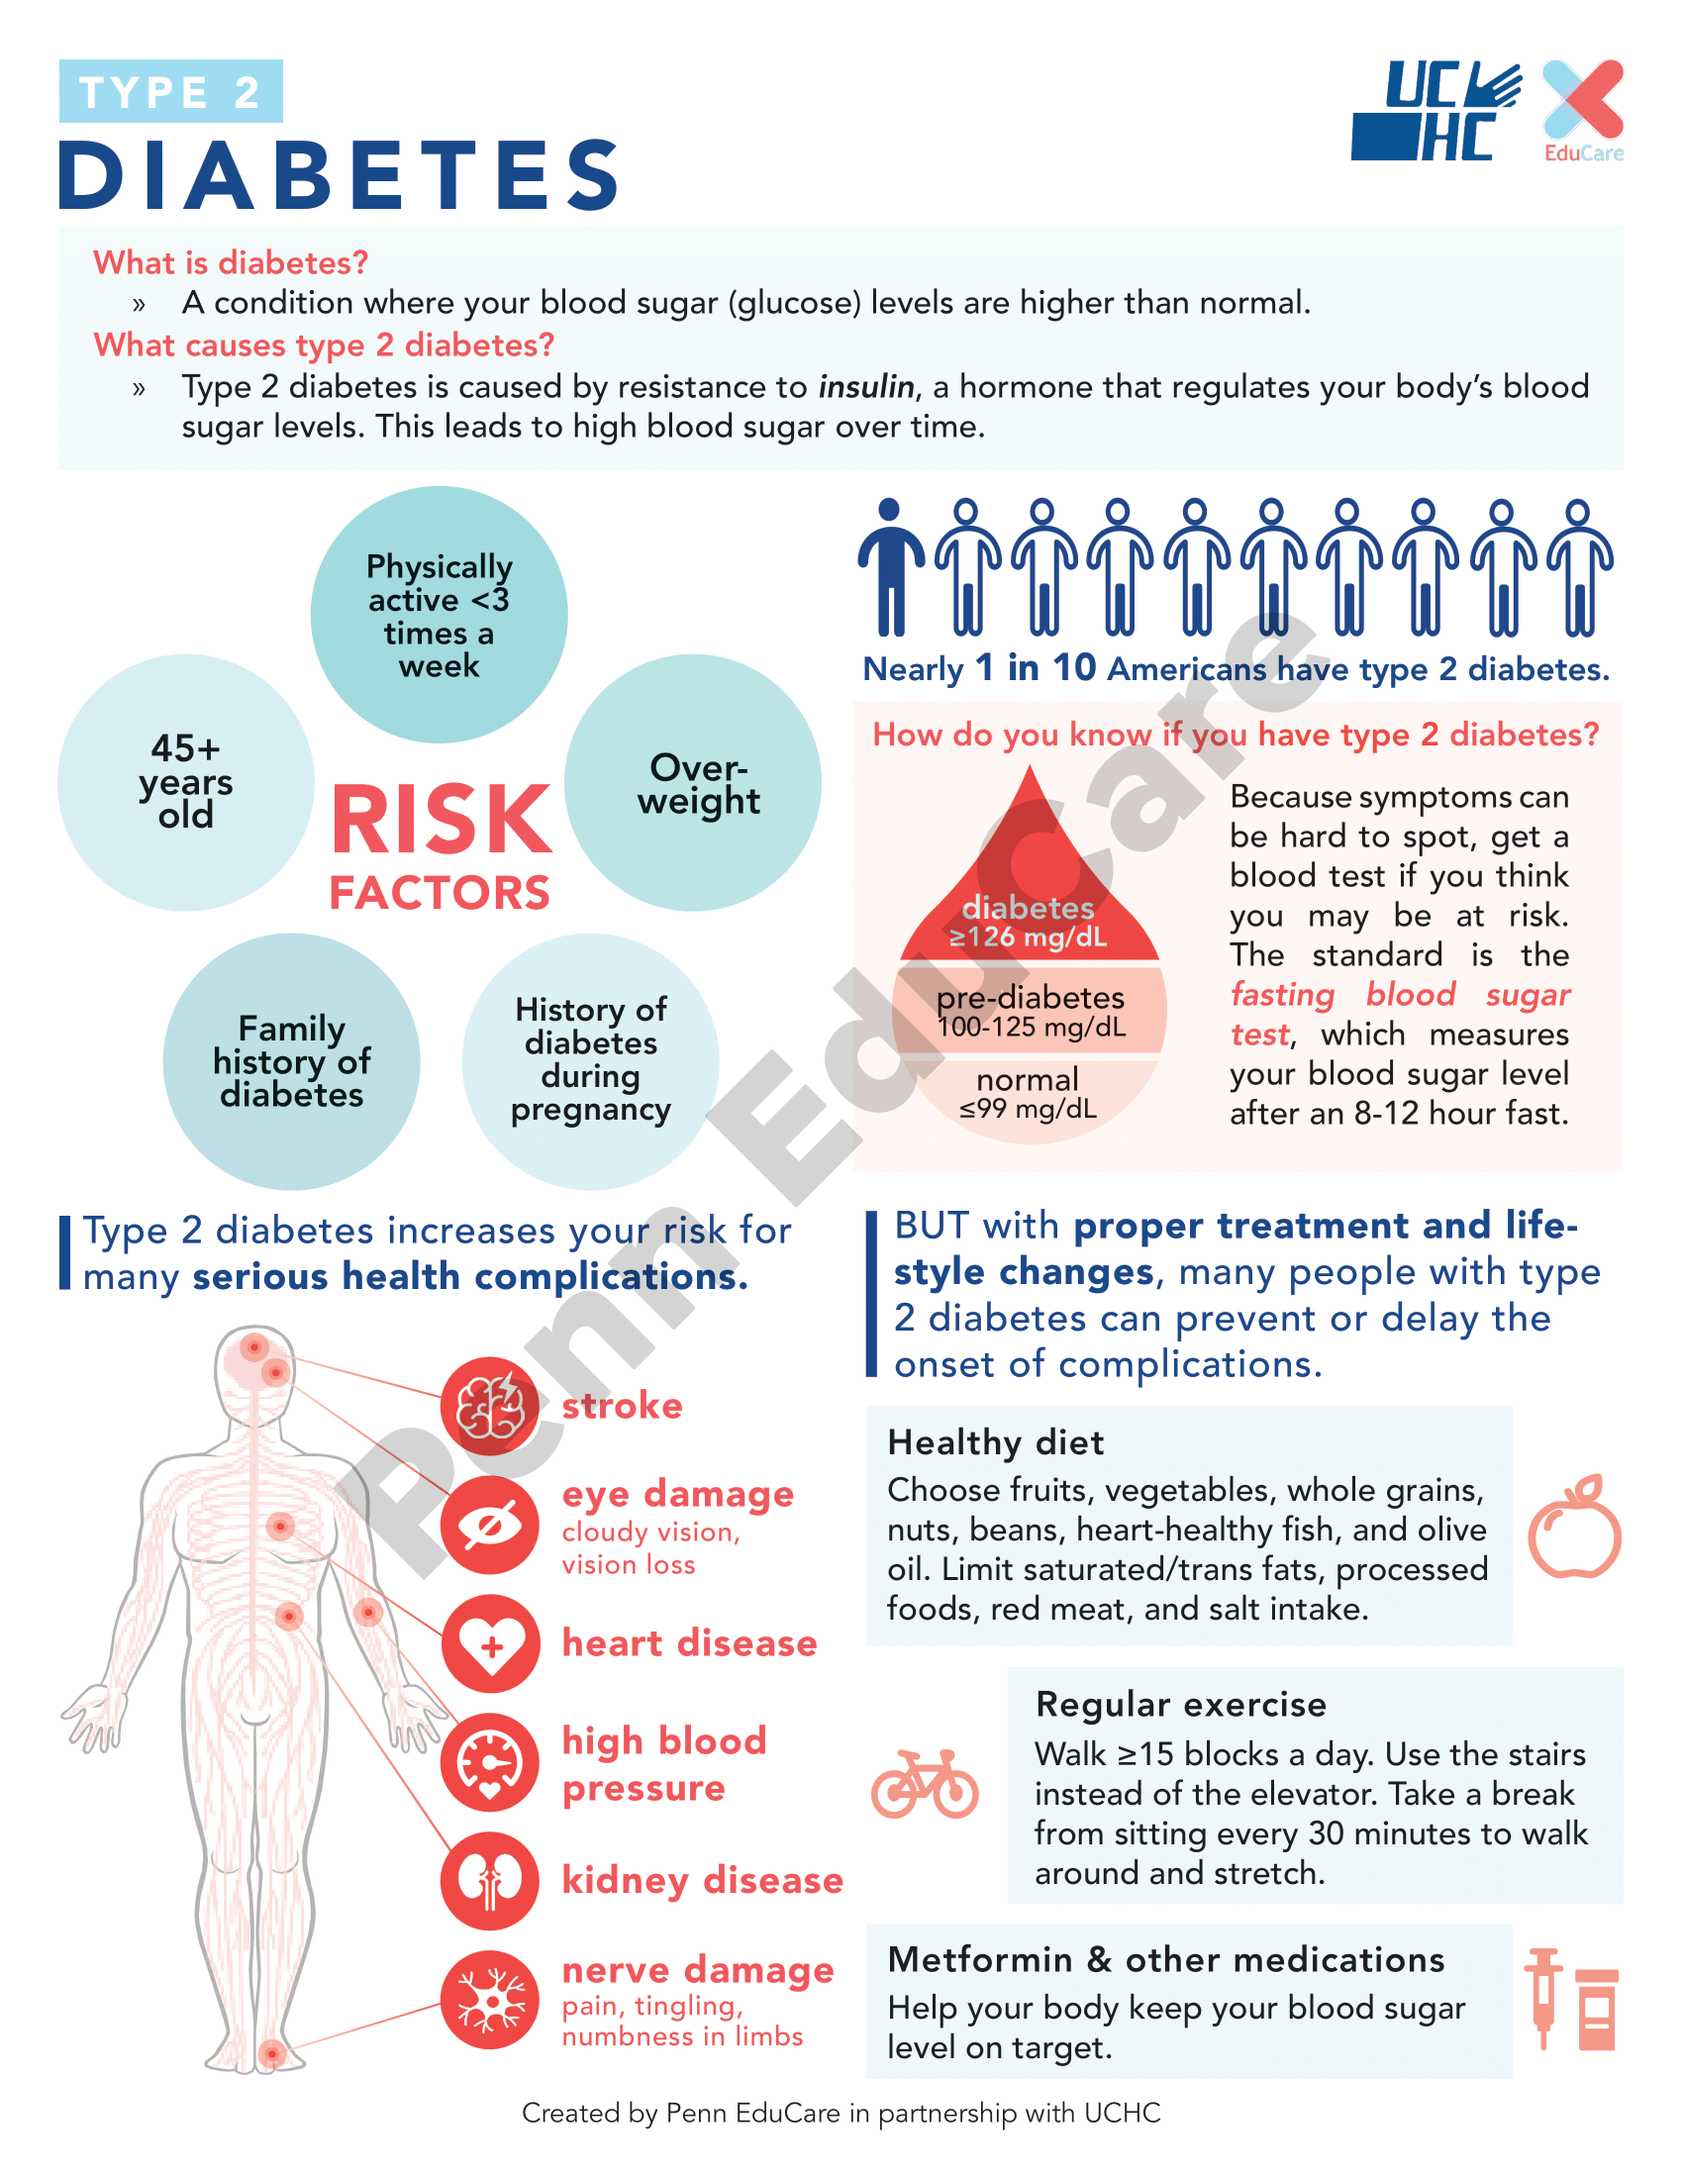
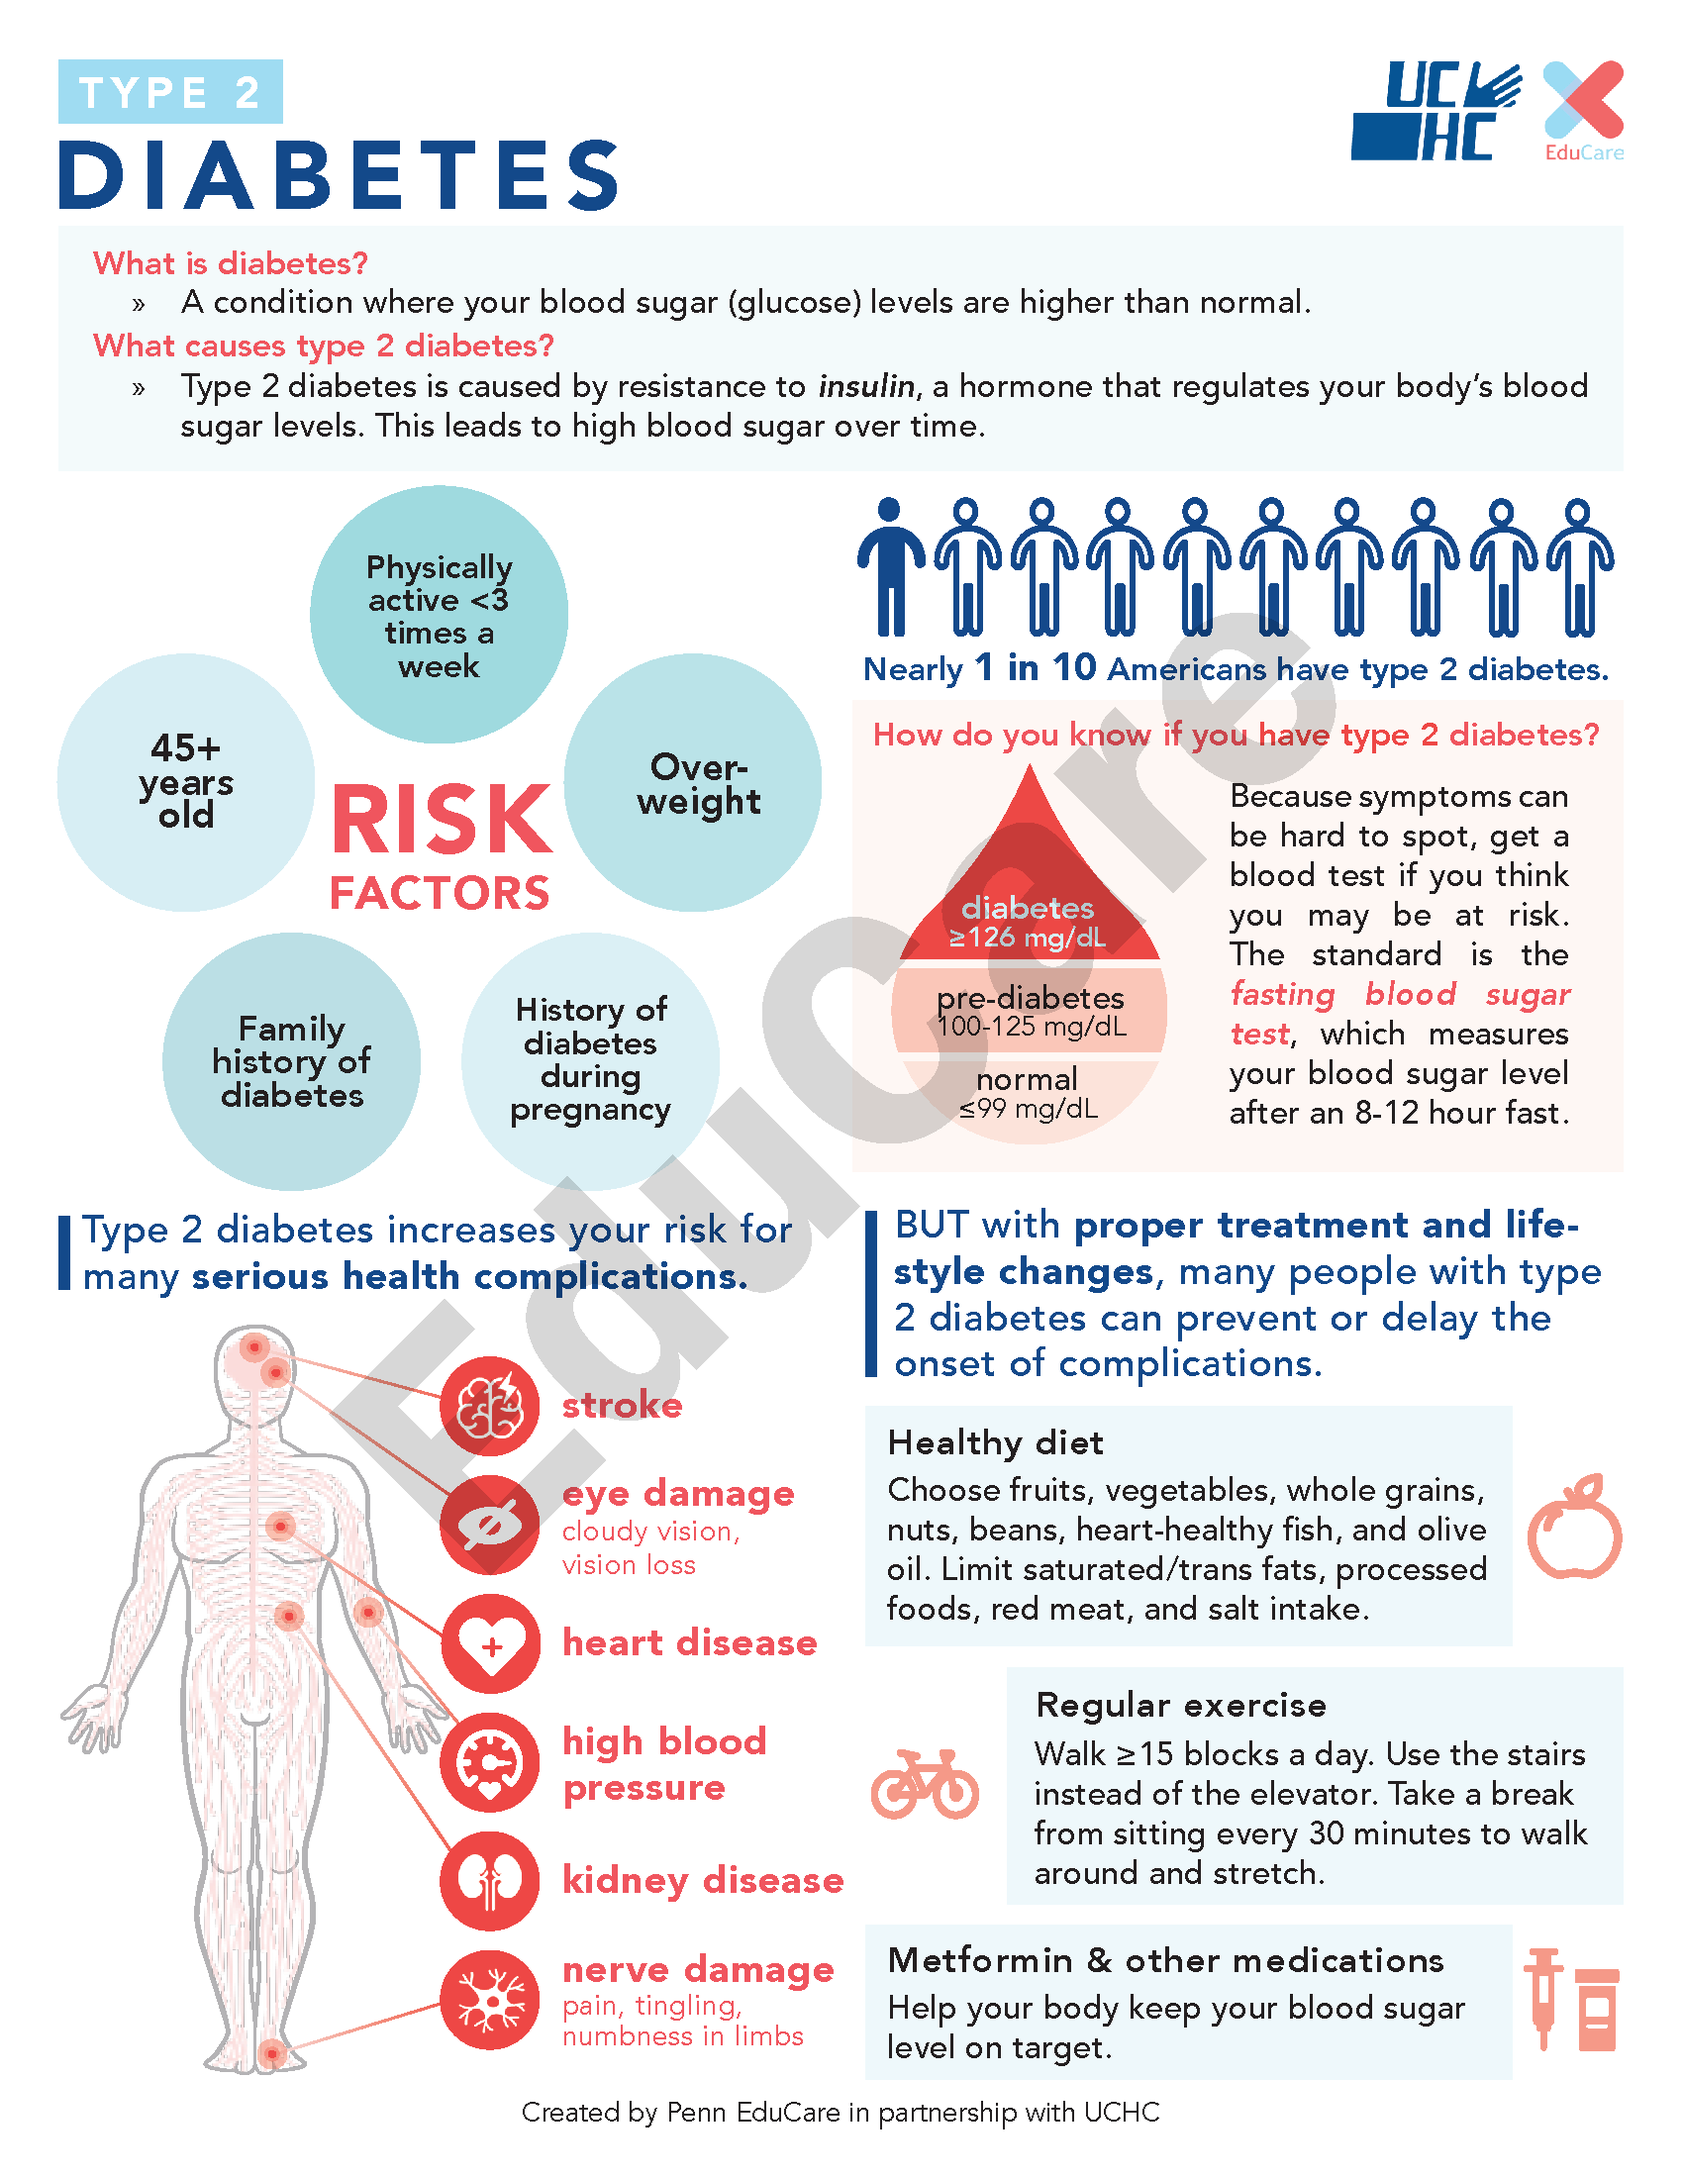
Fixed watermarks and portfolio bug

diff --git a/portfolio.html b/portfolio.html
@@ -201,37 +201,42 @@
     </div>
 
 
+	<!-- Modal -->
+	<div id="myModal" class="modal">
 
-    <div id="myModal" class="modal">
+		<!-- Modal content -->
+		<div class="modal-content">
+			<div class="modal-header">
+				<span class="close">&times;</span>
+				<h2 id="modal-title" class="modal-text"></h2>
+			</div>
+			<div class="modal-body">
+				<div style="display: flex; flex-direction: row; flex-wrap: wrap;  justify-content: center; align-items: center;">
+					<img id="modal-image" class="modal-img" />
 
-            <!-- Modal content -->
-            <div class="modal-content">
-                <div class="modal-header">
-                    <span class="close">&times;</span>
-                    <h2 id="modal-title" class="modal-text"></h2>
-                </div>
-                <div class="modal-body">
-                    <div style="display: flex; flex-direction: row; flex-wrap: wrap;  justify-content: center">
-                        <img id="modal-image" class="modal-img" />
-    
-                        <div style="display: flex; flex-direction: column;">
-                            <p style="width: 400px; max-width: 40vw; padding-left: 1rem;" class="modal-text" id="description-text">
-    
-                            </p>
-    
-                            <i style="width: 100%; padding-left: 1rem" class="modal-text" id="author-text">
-                            </i>
-                            <br />
-                            <p style="padding-left: 1rem"><img id="partner-logo" style="max-width: 70px; padding-left:.5rem; vertical-align: middle" />
-                                <span id="partner-name"></span></p>
-    
-                        </div>
-                    </div>
-                </div>
-    
-            </div>
-    
-        </div>
+					<div style="display: flex; flex-direction: column;">
+						<p style="width: 600px; max-width: 40vw; padding-left: 2rem;" class="modal-text" id="description-text">
+
+						</p>
+						<a target="_blank" id="instagram-link" class="icon brands alt fa-instagram" style="color: black; padding-left: 2rem;"><span
+							 class="label">Instagram</span> View on Instagram</a>
+
+						<div class="modalMetaBox">
+							<i class="modal-text" id="author-text">
+							</i>
+
+							<p><img id="partner-logo" style="max-width: 70px; padding-left:.5rem; vertical-align: middle" />
+								<span id="partner-name"></span></p>
+						</div>
+
+
+					</div>
+				</div>
+			</div>
+
+		</div>
+
+	</div>
     
         <!-- Scripts -->
     
